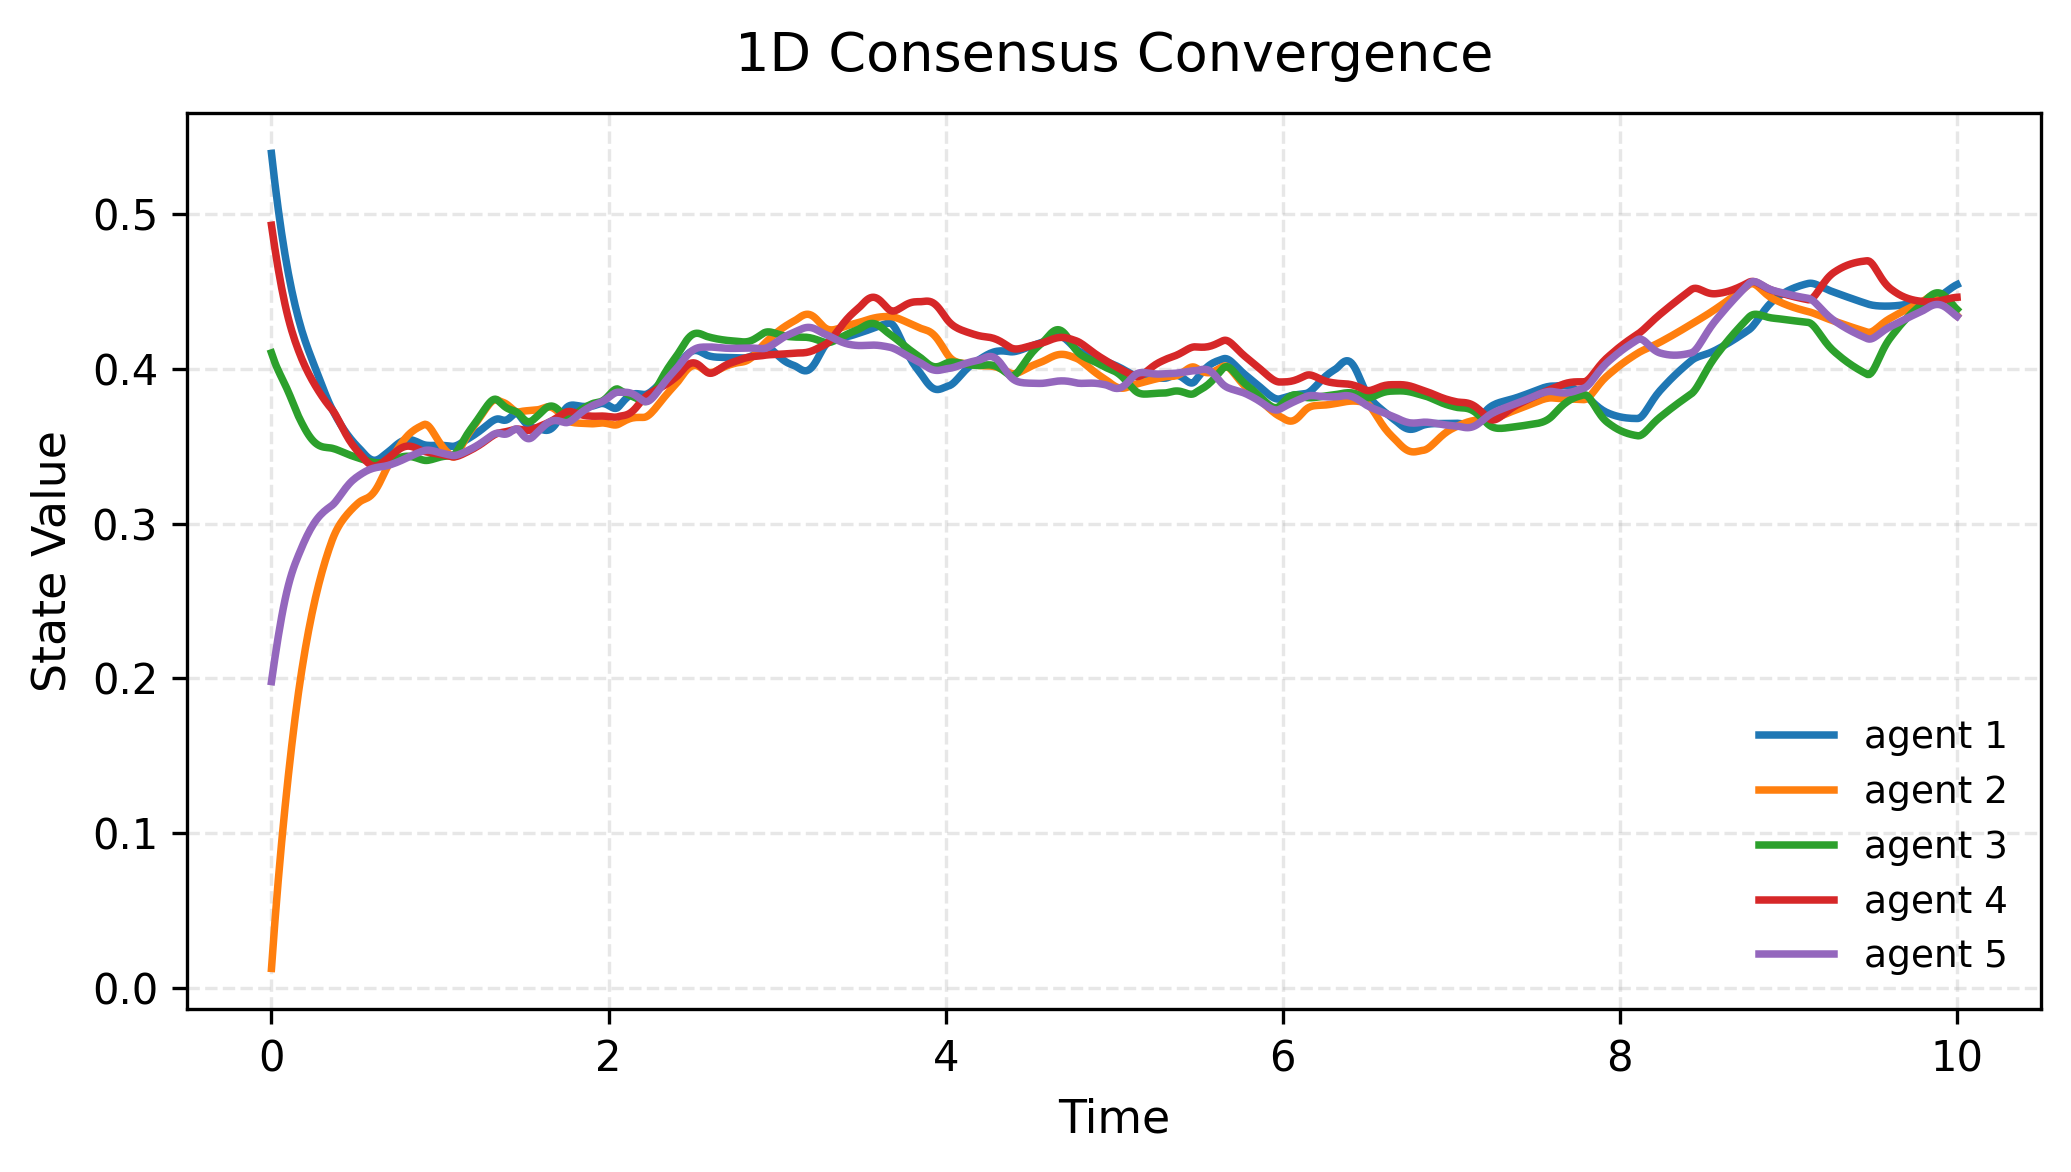
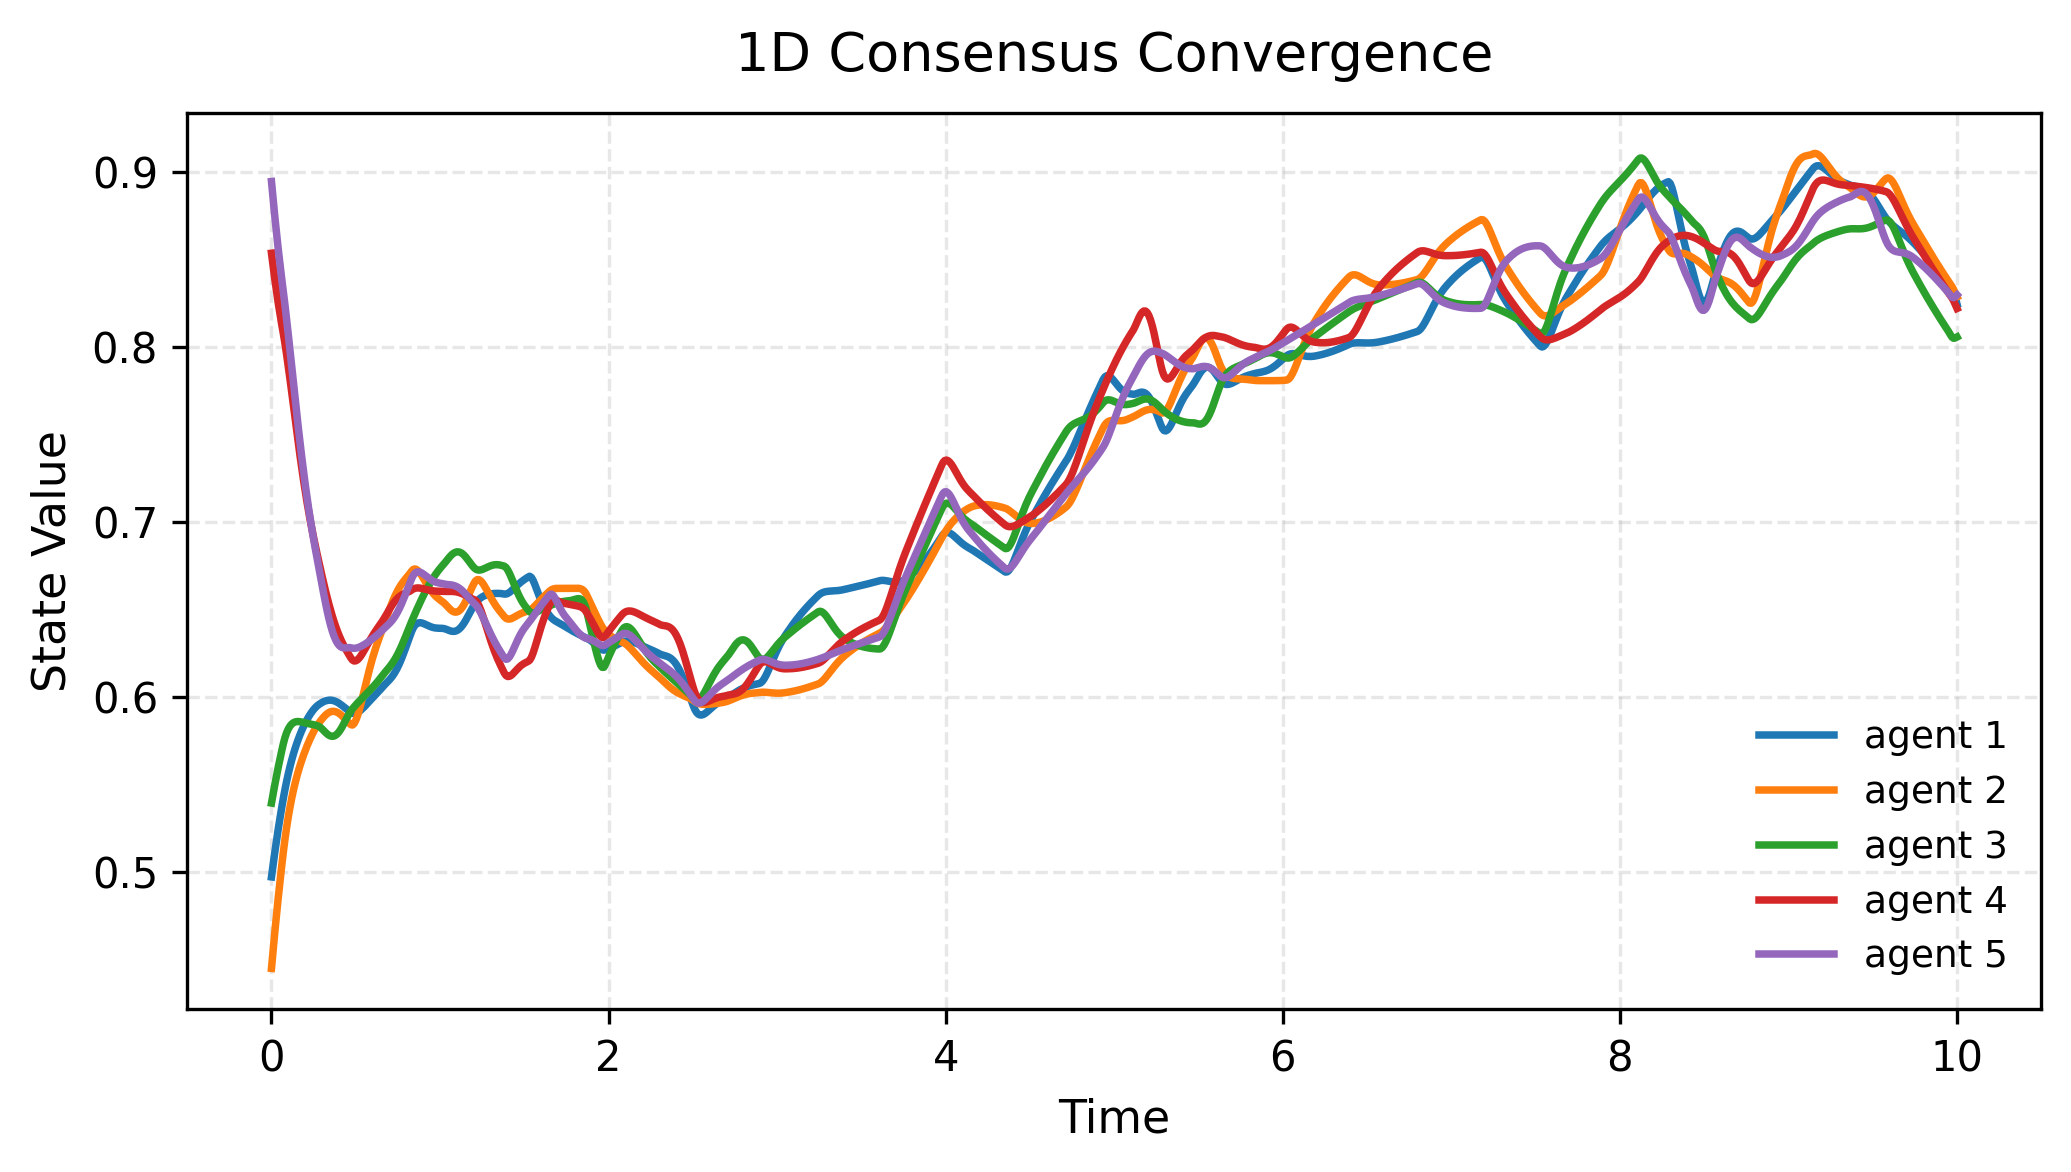
docs: figs

diff --git a/README.md b/README.md
@@ -46,6 +46,19 @@ uv run sniff protocol-1d
 uv run sniff protocol-2d --p-track 0.0 0.0
 ```
 
+<p align="center">
+  <img src="docs/assets/figures/protocol-2d.png" width="400"/>
+  <br>
+  <em>Figure 2: Consensus Protocol for noisy 2D agents tracking a setpoint.</em>
+</p>
+
 ### Running grid formation consensus
 ```bash
 uv run sniff formation --n 20 --spacing 0.1
+```
+
+<p align="center">
+  <img src="docs/assets/figures/formation.png" width="400"/>
+  <br>
+  <em>Figure 3: Consensus Protocol for noisy 2D agents forming a grid.</em>
+</p>
